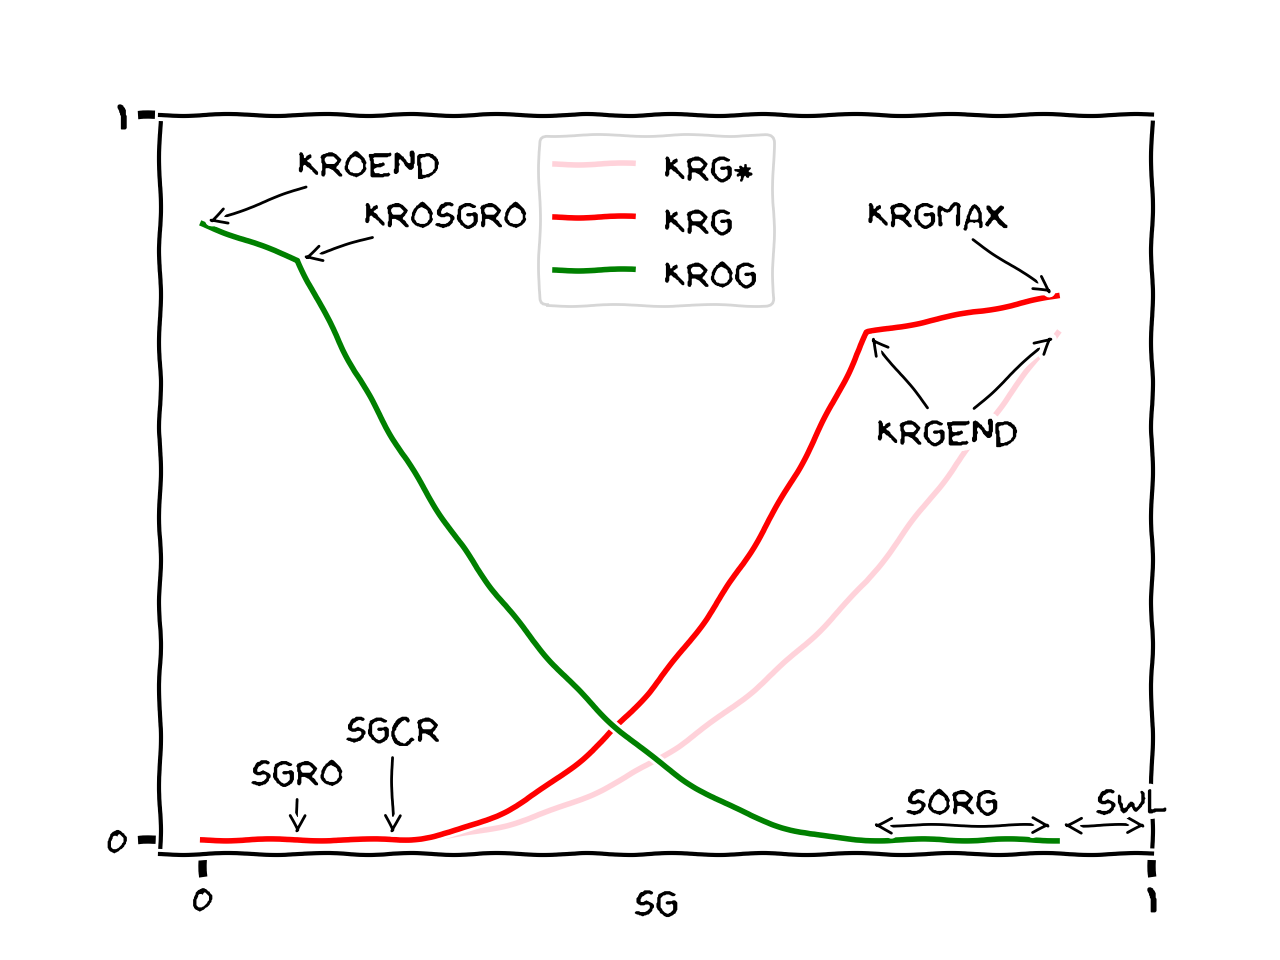
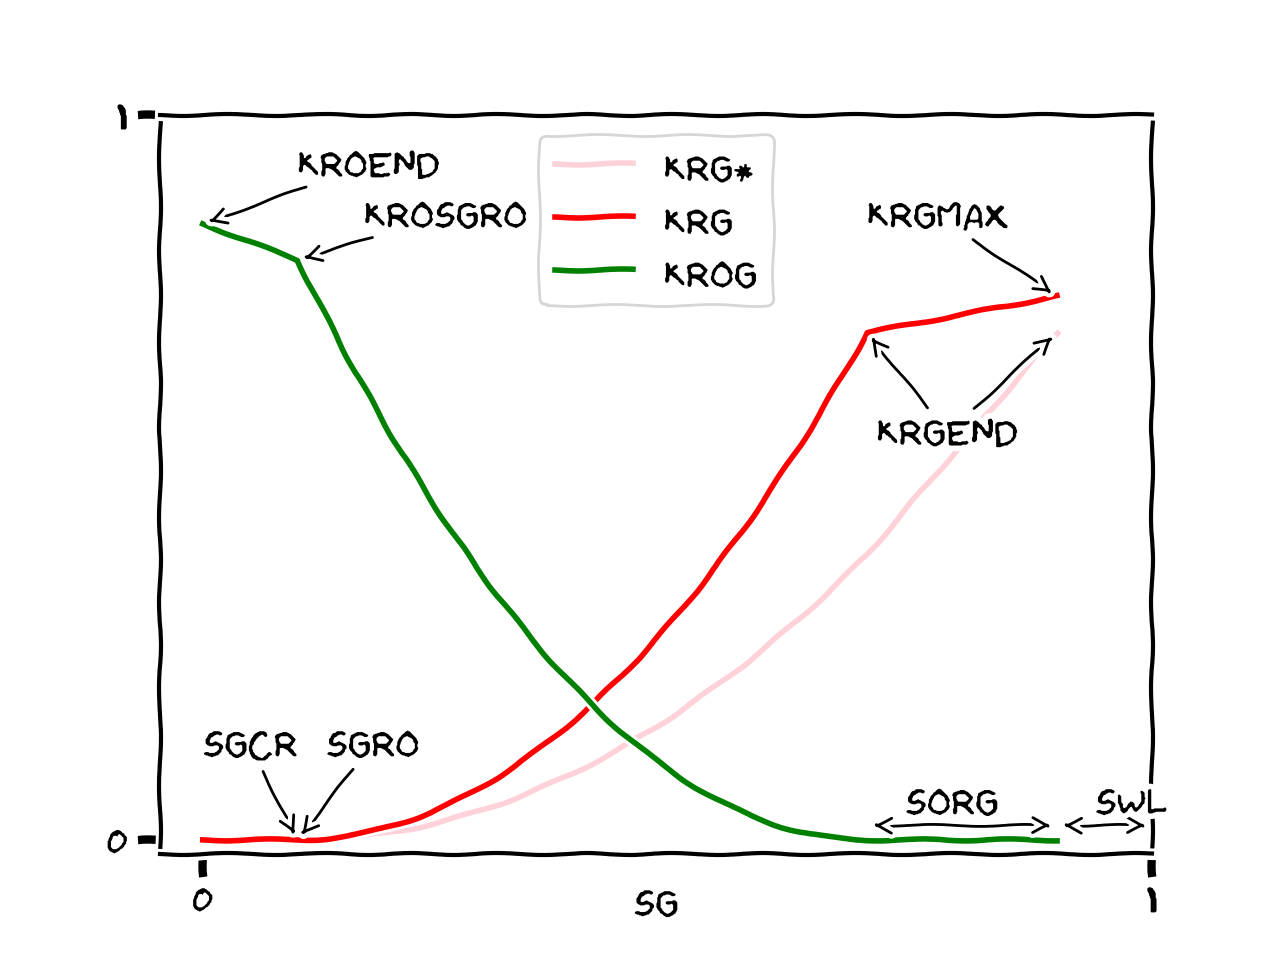
Limit sgro to either zero or sgcr

diff --git a/tests/test_gasoil.py b/tests/test_gasoil.py
@@ -75,9 +75,11 @@ def test_errors():
     with pytest.raises(ValueError, match="No saturation range left"):
         GasOil(swl=0.3, sorg=0.8)
     with pytest.raises(ValueError, match="No saturation range left"):
-        GasOil(swl=0.3, sgro=0.88)
+        GasOil(swl=0.3, sgro=0.88, sgcr=0.88)
     with pytest.raises(ValueError, match="No saturation range left"):
         GasOil(swl=0.3, sgcr=0.88)
+    with pytest.raises(ValueError, match="sgro must be zero or equal to sgcr"):
+        GasOil(swl=0.3, sgcr=0.1, sgro=0.2)
 
 
 def test_plotting():
@@ -143,7 +145,7 @@ def test_gasoil_normalization(swl, sgcr, sorg, h, tag):
     st.floats(min_value=0, max_value=0.3),  # swl
     st.floats(min_value=0, max_value=0.3),  # sgcr
     st.floats(min_value=0, max_value=0.4),  # sorg (sgn collapses when >0.4)
-    st.floats(min_value=0, max_value=0.3),  # sgro
+    st.booleans(),  # sgrononzero
     st.floats(min_value=0.1, max_value=1),  # kroend
     st.floats(min_value=0.1, max_value=1),  # krosgro
     st.floats(min_value=0.1, max_value=1),  # krgend
@@ -152,9 +154,13 @@ def test_gasoil_normalization(swl, sgcr, sorg, h, tag):
     st.booleans(),  # fast mode
 )
 def test_gasoil_krendmax(
-    swl, sgcr, sorg, sgro, kroend, krosgro, krgend, krgmax, h, fast
+    swl, sgcr, sorg, sgrononzero, kroend, krosgro, krgend, krgmax, h, fast
 ):
     """Test that relperm curves are valid in all numerical corner cases."""
+    if sgrononzero:
+        sgro = sgcr
+    else:
+        sgro = 0
     try:
         gasoil = GasOil(
             swl=swl, sgcr=sgcr, sorg=sorg, sgro=sgro, h=h, tag="", fast=fast

diff --git a/pyscal/gasoil.py b/pyscal/gasoil.py
@@ -45,7 +45,8 @@ class GasOil(object):
         sorg: Residual oil saturation after gas flooding. At this oil
             saturation, the oil has zero relative permeability.
         sgro: Residual gas, for use in gas-condensate modelling. Used
-            as an endpoint for parametrized oil curve.
+            as an endpoint for parametrized oil curve. Must be zero or equal
+            to sgcr for compatibility with Eclipse three-point scaling.
         krgendanchor: Set to `sorg` (default) or something else, where to
             anchor `krgend`. If `sorg`, then the normalized gas
             saturation will be equal to 1 at `1 - swl - sorg`,
@@ -128,6 +129,12 @@ class GasOil(object):
         if not 1 - swl - sorg - sgro > 0:
             raise ValueError(
                 "No saturation range left for oil curve between endpoints, check input"
+            )
+
+        if not (np.isclose(sgro, 0) or np.isclose(sgro, sgcr)):
+            raise ValueError(
+                "sgro must be zero or equal to sgcr, for compatibility with "
+                "Eclipse three-point scaling"
             )
 
         sg_list = (

diff --git a/docs/make_parameter_guideplot.py b/docs/make_parameter_guideplot.py
@@ -25,9 +25,9 @@ def make_gasoil_plot(show=True, krgendanchor="sorg"):
     plt.xkcd()
     _, axes = plt.subplots()
     swl = 0.1
-    sgcr = 0.2
-    sorg = 0.2
+    sgcr = 0.1
     sgro = 0.1
+    sorg = 0.2
     krgend = 0.7
     krgmax = 0.75
     kroend = 0.85
@@ -86,13 +86,13 @@ def make_gasoil_plot(show=True, krgendanchor="sorg"):
         "SGCR",
         xy=(sgcr, 0),
         arrowprops=dict(arrowstyle="->"),
-        xytext=(sgcr - 0.05, 0 + 0.14),
+        xytext=(sgcr - 0.10, 0 + 0.12),
     )
     axes.annotate(
         "SGRO",
         xy=(sgro, 0),
         arrowprops=dict(arrowstyle="->"),
-        xytext=(sgro - 0.05, 0 + 0.08),
+        xytext=(sgro + 0.03, 0 + 0.12),
     )
     plt.xlabel("SG", labelpad=-10)
     axes.annotate(
